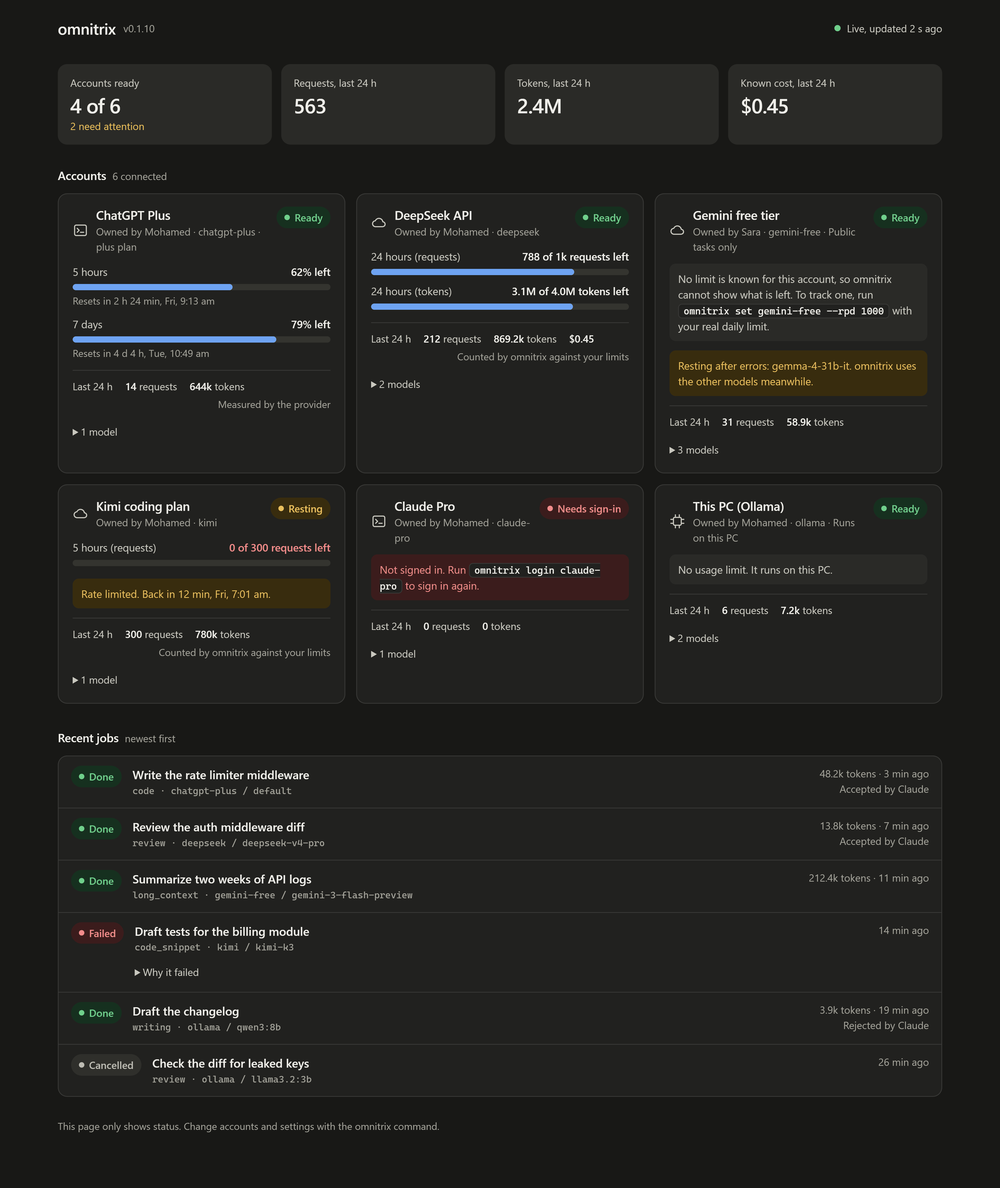
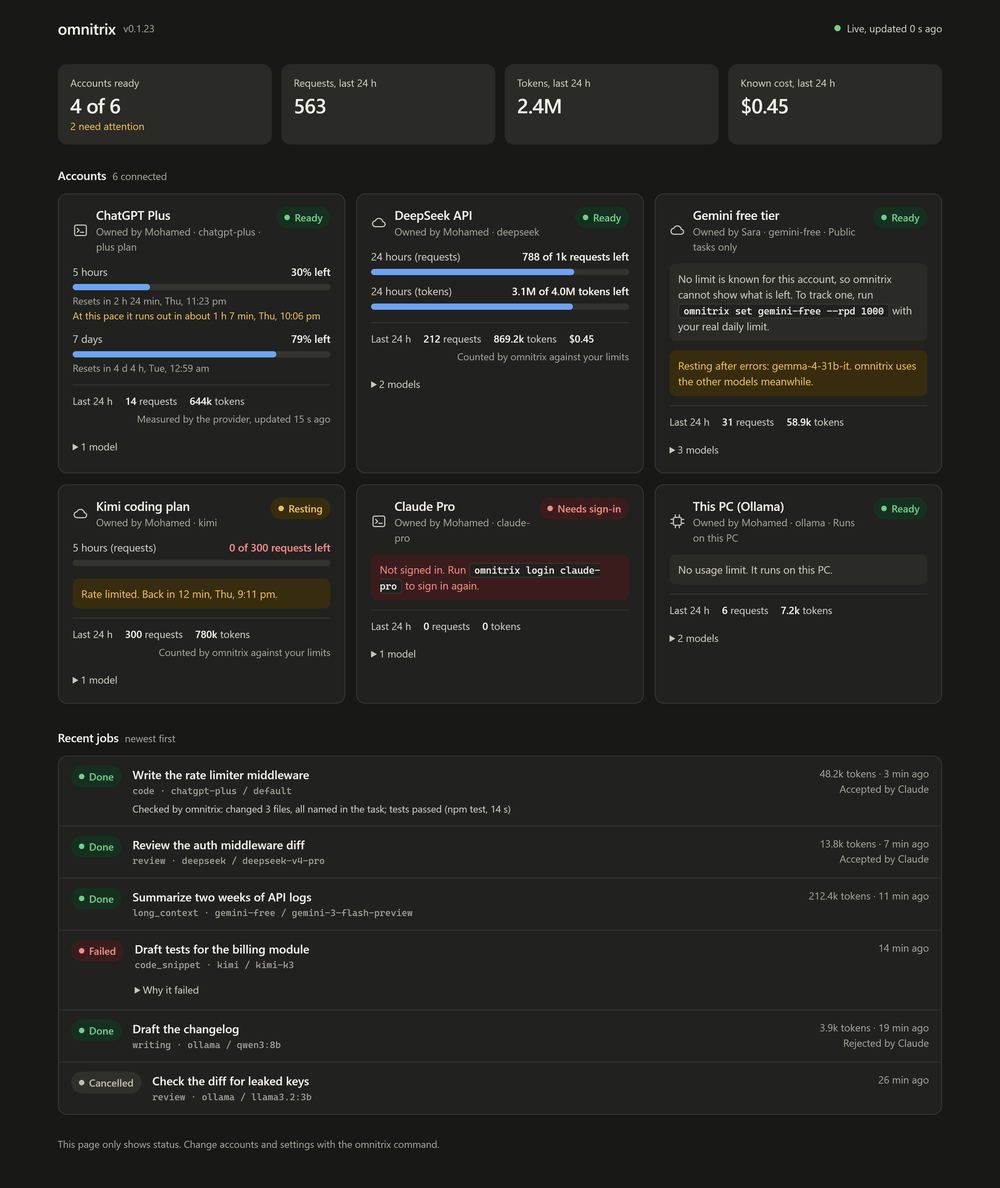
Bring the documentation in line with the code
The README now gives the real retry, rest and quota rules, the concurrency
defaults and how jobs move to the next free account, the job time limit
and output caps, how verdicts fade, where keys are stored and how to keep
them out of shell history, what the training flags do and do not cover,
and a complete command reference with the options each command takes.
SECURITY.md now states what the file lock covers and what it does not,
the limits of the copies that agent CLIs work in, and what the dashboard
shows. CONTRIBUTING.md lists the optional provider fields. The dashboard
screenshots show the live dashboard with omnitrix's check of a code job.

Release 0.1.23

diff --git a/src/version.ts b/src/version.ts
@@ -1,1 +1,1 @@
-export const VERSION = '0.1.22';
+export const VERSION = '0.1.23';

diff --git a/README.md b/README.md
@@ -9,7 +9,7 @@ Claude plans the work, and your other AI accounts carry it out.
 
 I built omnitrix because I repeatedly ran out of Claude credits while the ChatGPT Plus and Gemini subscriptions that my friends and I pay for remained largely unused.
 
-omnitrix is built for the frontier-model subscriptions and API keys you already pay for, and it runs inside your existing Claude Code session. Claude remains in charge: it divides the job into tasks and reviews the results. omnitrix sends each task to an account that suits the work and still has quota available. For example, it can use Codex on your ChatGPT plan for code edits, Gemini for reading very large logs, DeepSeek or Kimi for reasoning and review, or a local model for private work. It also supports any service that implements the OpenAI or Anthropic API.
+omnitrix is built for the frontier-model subscriptions and API keys you already pay for, and it runs inside your existing Claude Code session. Claude remains in charge: it divides the job into tasks and reviews the results. omnitrix sends each task to an account that suits the work and still has quota available. For example, it can use Codex on your ChatGPT plan for code edits, Gemini for reading very large logs, DeepSeek or Kimi for reasoning and review, or a local model for private work. It also supports any service that implements the OpenAI Chat Completions format or the Anthropic Messages format, through `custom-openai` and `custom-anthropic`.
 
 You can monitor the pool without leaving Claude Code. The status line shows up to four accounts with their remaining quota or status, and omnitrix instructs Claude to check the same data before it assigns work. Claude reads short results instead of performing every step itself, which uses less of your Claude usage limit.
 
@@ -71,9 +71,9 @@ Every task that Claude sends has a type, such as code, review or bulk work, and 
 - not permitted to receive the task: private work never goes to an account that may train on prompts while private protection is on, and secret work goes only to local models at an address on this computer (`localhost`, `127.x.x.x` or `::1`), never to a model whose name ends in `-cloud` or `:cloud`
 - unable to do the task, such as a model that cannot read images
 
-A model that is resting after errors is skipped, while the account's other models remain available. An account that fails three times in a row within ten minutes, through network errors, server errors, timeouts or unknown errors, rests for ten minutes. Rate limits, exhausted quota and sign-in problems are handled separately and do not count towards this. When `pool_status` or the dashboard shows the pool, omnitrix also asks each local model server, such as Ollama, for its model list at most once every 30 seconds, and shows a server that does not answer as offline. The router then skips that server until it answers again. Server errors and timeouts that all come from one model only pause that model, so they do not rest an account that has other models.
+A model that is resting after errors is skipped, while the account's other models remain available. An account that fails three times in a row within ten minutes, through network errors, server errors, timeouts or unknown errors, rests for ten minutes. Rate limits, exhausted quota and sign-in problems are handled separately and do not count towards this. When `pool_status` or the dashboard shows the pool, omnitrix also asks each local model server, such as Ollama, for its model list at most once every 30 seconds, and shows a server that does not answer as offline for 60 seconds, during which the router skips it. Other failures rest the whole account for a short time: 60 seconds after a network error (30 seconds for a local server), 30 seconds after a server error on an account with only one model, and 60 seconds after a rate limit unless the provider names a time. Server errors and timeouts that all come from one model only pause that model, so they do not rest an account that has other models.
 
-Each remaining model receives a score based on how well it fits the task, how much quota the account has left, what the model costs, and how often its past work was accepted. An account that is already running as many jobs as its concurrency limit allows has its score halved. The highest-scoring model receives the task. If that call fails, omnitrix ranks the accounts again, skips those it has already tried, and passes the task on without any action from Claude. A job makes at most three attempts. A model that the provider no longer serves, or for which the plan has no allowance, is removed from the account and rests for 24 hours, and trying it does not count as an attempt.
+Each remaining model receives a score based on how well it fits the task, how much quota the account has left, what the model costs, and how often its past work was accepted. An account that is already running as many jobs as its concurrency limit allows has its score halved. The highest-scoring model receives the task. If that call fails, omnitrix ranks the accounts again, skips those it has already tried, and passes the task on without any action from Claude. After a timeout or a server error, the same account stays eligible with another of its models. A job makes at most three attempts, and at most twelve tries in total when retired models are included. A request that the provider rejects as invalid, including an `effort` value that the model does not accept, fails the job without another attempt, and so does an answer that arrived but could not be saved. A model that the provider no longer serves, or for which the plan has no allowance, is removed from the account and rests for 24 hours, and trying it does not count as an attempt.
 
 Three further adjustments multiply that score. Each adjustment that applies is listed in the reasons shown by `omnitrix route`, which lists the top eight candidates, and by `route_preview`, which lists the top three:
 
@@ -85,15 +85,15 @@ Together these adjustments can raise a score by about 44% or lower it by 25%, so
 
 Code tasks go only to agent CLIs that can edit files. Each task runs on a new branch in its own git worktree, so two workers never share a checkout. Other tasks that name a repository and go to an agent CLI run in a temporary copy of the repository that is removed afterwards, so a reviewing worker does not work in your checkout. The copy is taken at the last commit, and the files that the task lists are copied into the prompt from your working tree, including changes that are not committed.
 
-After a code task, omnitrix checks the branch itself rather than relying on the worker's report. It lists the files that the worker changed and, when the task named its files, the changed files that the task did not name. When the task gives a `test` command, such as `["npm", "test"]`, omnitrix runs it in the job's worktree after the worker finishes and reports whether it passed, its exit code and the end of its output. `get_results` waits for the test, and the dashboard shows the result on each job as "Checked by omnitrix". The test runs the worker's code on your computer, without keys in its environment, with an empty home folder of its own and within the job time limit; `cancel_job` stops it. omnitrix never merges anything: Claude still reviews the work, and you decide what to keep.
+After a code task, omnitrix checks the branch itself rather than relying on the worker's report. It lists the files that the worker changed and, when the task named its files, the changed files that the task did not name. When the task gives a `test` command, such as `["npm", "test"]`, omnitrix runs it in the job's worktree after the worker finishes and reports whether it passed, its exit code and the end of its output. `get_results` waits for the test, and the dashboard shows the result on each job as "Checked by omnitrix". The test runs the worker's code on your computer, without keys in its environment, with an empty home folder of its own and with its own time limit, equal to the job limit but at most one hour; `cancel_job` stops it when it runs in the same omnitrix process. omnitrix never merges anything: Claude still reviews the work, and you decide what to keep.
 
-An account's concurrency limit applies to all omnitrix processes on the same computer, such as the MCP server, the dashboard and the command line. A job waits in the queue until the account has a free slot. The limit does not apply across different computers.
+An account's concurrency limit applies to all omnitrix processes that share the same data folder, such as the MCP server, the dashboard and the command line. It is 1 by default for agent CLIs and local models and 2 for APIs, and `omnitrix set <id> --concurrency` changes it. When the best account is full, the job goes to the next eligible account that has a free slot, and it waits in the queue only when every eligible account is full. The limit does not apply across different computers, and `omnitrix test` does not count towards it.
 
-A request to an API model may take up to 2 minutes for a small task, 5 minutes for a medium one and 10 minutes for a large one, and never longer than the job limit set with `omnitrix settings --timeout`. Agent CLIs such as Codex may use the whole job limit, because they work in many steps. When a model times out, returns a server error or returns an empty answer, that model is paused for 5 minutes, and the job continues on other accounts or models. An agent CLI that exits with an error code has failed, even if it printed an answer first.
+A request to an API model may take up to 2 minutes for a small task, 5 minutes for a medium one and 10 minutes for a large one, and never longer than the job limit, which is 900 seconds unless you change it with `omnitrix settings --timeout`. A task's `size` is medium unless Claude sets it, and it also caps the answer of an API model at 4,000, 16,000 or 32,000 tokens. Agent CLIs such as Codex may use the whole job limit, because they work in many steps. When a model times out, returns a server error or returns an empty answer, that model is paused for 5 minutes, and the job continues on other accounts or models. An agent CLI that exits with an error code has failed, even if it printed an answer first.
 
-Skill scores are starting points, not measurements, and `omnitrix models <id>` shows where each set comes from: `untested` when omnitrix knows nothing about the model, `estimated` when the scores are guessed from the model's name or from what the server reports, and `manual` when you set them yourself. For a local model, only the size and a specialty such as "coder" in its name count, because a local name can be anything; Ollama models are scored from the size and capabilities that Ollama reports and from a specialty in the name; a model that Ollama does not list receives the plain local scores. A hosted model is treated as reading images when its name suggests it or when you set a vision score; a local model is treated as reading images only when the server reports it or when you set its scores yourself. A `vision` task sends the pictures among its files (PNG, JPEG, GIF or WebP, up to four files of at most 3.75 MB each, which is about 5 MB after encoding; larger or additional pictures are not sent) with the request, so it goes only to API and local models, never to agent CLIs.
+Skill scores are starting points, not measurements, and `omnitrix models <id>` shows where each set comes from: `untested` when omnitrix knows nothing about the model, `estimated` when the scores are guessed from the model's name or from what the server reports, and `manual` when you set them yourself. For a local model, only the size and a specialty such as "coder" in its name count, because a local name can be anything; Ollama models are scored from the size and capabilities that Ollama reports and from a specialty in the name; a model that Ollama does not list receives the plain local scores. Text files that a task lists are copied into the prompt up to 400,000 characters in total, from at most 50 files. A hosted model is treated as reading images when its name suggests it or when you set a vision score of 5 or more; a local model is treated as reading images only when the server reports it or when you set its scores yourself. A `vision` task sends the pictures among its files (PNG, JPEG, GIF or WebP, up to four files of at most 3.75 MB each, which is about 5 MB after encoding; larger or additional pictures are not sent) with the request, so it goes only to API and local models, never to agent CLIs.
 
-omnitrix also adjusts its ranking over time: when Claude accepts or rejects a result, the model's record for that type of task is updated, and `omnitrix models` shows how many rated jobs each model has had and how many of them were accepted; older verdicts count for less over 30 days, and the figures are rounded. A later verdict on the same job replaces the earlier one instead of counting twice. For Ollama models that report a version digest, the record belongs to that exact version, so after `omnitrix models <id> --refresh` a new model pulled under the same name starts without the old record. Models that the router picks more often collect verdicts sooner, so an acceptance rate based on a few jobs says little.
+omnitrix also adjusts its ranking over time: when Claude accepts or rejects a result, the model's record for that type of task is updated, and `omnitrix models` shows how many rated jobs each model has had and how many of them were accepted; the weight of a verdict halves every 30 days, the figures are rounded, and the past-results factor in the router's reasons ranges from 0.6 to 1.4. A later verdict on the same job replaces the earlier one instead of counting twice. For Ollama models that report a version digest, the record belongs to that exact version, so after `omnitrix models <id> --refresh` a new model pulled under the same name starts without the old record. Models that the router picks more often collect verdicts sooner, so an acceptance rate based on a few jobs says little.
 
 ```bash
 omnitrix models deepseek
@@ -105,7 +105,7 @@ omnitrix route --type review "check this diff for auth bugs"
 
 <picture>
   <source media="(prefers-color-scheme: dark)" srcset="assets/dashboard-4k-dark.png">
-  <img alt="The omnitrix dashboard with example data: six accounts, with quota meters where limits are known, one resting after a rate limit and one that needs sign-in, and the latest jobs with their results." src="assets/dashboard-4k-light.png" width="100%">
+  <img alt="The omnitrix dashboard with example data: six accounts, with quota meters where limits are known, one resting after a rate limit and one that needs sign-in, and the latest jobs with their results, including omnitrix's own check of a code job." src="assets/dashboard-4k-light.png" width="100%">
 </picture>
 
 <sub>The dashboard, shown with example data. Run `omnitrix dashboard` to open your own.</sub>
@@ -120,13 +120,13 @@ omnitrix 5/6 ready · codex-main 38% · deepseek 788 left · kimi wait · groq-f
 
 Account percentages show the share remaining, and the Claude figures show the share used.
 
-Most subscriptions neither publish exact limits nor provide a way to query the remaining allowance, so omnitrix states the source of each figure. For a ChatGPT plan, it queries Codex directly and shows the percentage remaining in each window that Codex reports, usually 5 hours and 7 days, along with the time each window resets. This query ignores any API key exported in your environment, so the figures always belong to the account's own plan. When a provider sends rate-limit headers, omnitrix reports the remaining requests in the status line and in `pool_status`. In all other cases, it counts the requests and tokens it has sent against the limits you configured. A `429` or `402` response from the provider pauses the account, whatever the count shows.
+Most subscriptions neither publish exact limits nor provide a way to query the remaining allowance, so omnitrix states the source of each figure. For a ChatGPT plan, it queries Codex directly and shows the percentage remaining in each window that Codex reports, usually 5 hours and 7 days, along with the time each window resets. This query ignores any API key exported in your environment, so the figures always belong to the account's own plan. When a provider sends rate-limit headers, omnitrix reports the remaining requests in the status line and in `pool_status`. In all other cases, it counts the requests and tokens it has sent against the limits you configured. A `402` response, or a `429` response that mentions quota or billing, marks the account as out of quota until the provider's reset time, or for one hour when the provider gives no time. Any other `429` pauses the account until the time in `Retry-After`, or for 60 seconds, and a `429` that reports `limit: 0` pauses only that model, for 24 hours. These waits never exceed 24 hours, whatever the count shows.
 
 omnitrix also estimates when a window will run out if use continues at its current pace. For the windows that Codex reports for a ChatGPT plan, the pace is the share used between the opening of the window and the latest reading, and an estimate is possible once the window has been open for at least 15 minutes. For the 5-hour and 24-hour limits that omnitrix counts itself, the pace is the number of requests, or tokens, sent in the last hour, and an estimate is possible once at least three requests were sent in that hour. Weekly, monthly and one-minute limits are not estimated, because a single hour says little about them. An estimate is shown only when it falls before the window resets or, for a rolling window, within the length of the window. The estimate is a straight-line projection that does not account for older use leaving a rolling window, so it is a warning rather than a prediction. In `pool_status` it reads, for example, "runs out in about 1 h 7 min at this pace", and the dashboard shows "At this pace it runs out in about 1 h 7 min", followed by the time.
 
 ## Privacy
 
-Tasks are `private` by default, which keeps them away from accounts flagged as possibly training on prompts. omnitrix flags Mistral, the Gemini API and Gemini CLI by default, and you can flag any other account with `omnitrix set <id> --trains-on-data`. A Gemini CLI account added before version 0.1.18 keeps its old setting until you flag it this way. A task marked `secret` runs only on local providers such as Ollama, at an address on this computer, and never on Ollama's cloud models. omnitrix sends data only to the providers you connect, and it collects no telemetry.
+Tasks are `private` by default, which keeps them away from accounts flagged as possibly training on prompts. omnitrix flags Mistral, the Gemini API and Gemini CLI by default, and you can flag any other account with `omnitrix set <id> --trains-on-data`. A Gemini CLI account added before version 0.1.18 keeps its old setting until you flag it this way. A task marked `secret` runs only on local providers such as Ollama, at an address on this computer, and never on Ollama's cloud models. omnitrix sends prompts only to the providers you connect, and in team mode it also writes usage records, without prompts or results, to the shared `auditDir`. omnitrix itself collects no telemetry, but the agent CLIs it starts follow their own telemetry settings. The training flags are fixed defaults that are not checked against each provider's current terms; OpenRouter, NVIDIA and custom providers are not flagged, so flag them yourself when their terms allow training.
 
 ## Connecting accounts
 
@@ -140,7 +140,7 @@ Tasks are `private` by default, which keeps them away from accounts flagged as p
 | A local model | `omnitrix add ollama` (LM Studio, llama.cpp and vLLM are also supported) |
 | Any other service | `omnitrix add custom-openai --base-url https://host/v1 --key-env MY_KEY --model my-model` |
 
-Run `omnitrix providers` for the full list. Each CLI account has its own profile folder, so two Codex logins never mix. Keys are stored in `~/.omnitrix/secrets.json`, which on macOS and Linux only your user account can read. If you use `--key-env`, omnitrix does not store the key at all.
+Run `omnitrix providers` for the full list. Each CLI account has its own profile folder, so two Codex logins never mix. Keys are stored as plain text in `~/.omnitrix/secrets.json`, not in the operating system's keychain; on macOS and Linux only your user account can read the file, and on Windows omnitrix leaves its permissions as Windows sets them. Set `OMNITRIX_HOME` to keep omnitrix's data in another folder. If you use `--key-env`, omnitrix does not store the key at all, and when you give neither `--key` nor `--key-env`, `omnitrix add` uses the provider's usual environment variable if it is set. Avoid `--key <value>`, because the key then appears in your shell history.
 
 To track a limit, specify it when you add the account or later with `omnitrix set`:
 
@@ -150,7 +150,7 @@ omnitrix set groq-free --rpm 30 --rpd 1000
 omnitrix set deepseek --tpd 4000000      # tokens per day
 ```
 
-The available options are `--rpm` (requests per minute), `--r5h` (requests per 5 hours), `--rpd` (requests per day), `--rpw` (requests per week), `--tpd` (tokens per day) and `--tpm` (tokens per month).
+The available options are `--rpm` (requests per minute), `--r5h` (requests per 5 hours), `--rpd` (requests per day), `--rpw` (requests per week), `--tpd` (tokens per day) and `--tpm` (tokens per month). Minutes, hours, days and weeks are rolling windows, and the month is the calendar month in local time. Only requests that omnitrix sends are counted, and a request counts once it has finished, so parallel jobs can go somewhat past a limit.
 
 ## Team mode
 
@@ -203,47 +203,53 @@ omnitrix runs as an MCP server and gives Claude the following tools:
 | `pool_status` | Lists every account with its state, owner, models and remaining quota |
 | `route_preview` | Shows which account would receive each task, and why, without running anything |
 | `dispatch` | Sends up to 30 tasks at once and runs independent tasks in parallel |
-| `get_results` | Waits for jobs and returns a short preview of each result |
-| `read_output` | Reads a full result in pages when the preview is not sufficient |
+| `get_results` | Waits for up to 50 jobs, 45 seconds by default and at most 110, and returns a short preview of each result, or the full results with `full` |
+| `read_output` | Reads a full result in pages of 12,000 characters by default and at most 40,000 |
 | `rate_result` | Accepts or rejects a result so that the router can learn from it, and can send a rejected task to another model |
-| `cancel_job`, `list_jobs` | Cancels a job or lists recent jobs |
+| `cancel_job`, `list_jobs` | Cancels a job, its pending check or its running test, or lists the 20 most recent jobs (at most 100) |
+
+Each task has a `title` of at most 200 characters, a `type`, a `prompt` and optionally an `acceptance` line, a `privacy` level, `files`, a `repo`, a `size` (`small`, `medium` or `large`), `use` to force an account or model, `effort`, `check` and, for code tasks, `test`. `route_preview` accepts up to 30 tasks.
 
 The `pool_status`, `dispatch` and `get_results` tools declare output schemas, and their structured data contains everything their text shows. `list_jobs` also lists jobs that other omnitrix processes started, and `cancel_job` can cancel them.
 
-A task can set `effort` to `low`, `medium` or `high` to ask a reasoning model to think less or more. omnitrix passes it to Codex and to OpenAI-compatible APIs such as Gemini; without it, each provider uses its own default. From the command line, use `omnitrix run --effort high`.
+A task can set `effort` to `low`, `medium` or `high` to ask a reasoning model to think less or more. omnitrix passes it to Codex and to OpenAI-compatible APIs such as Gemini, but not to Anthropic-format APIs or to other agent CLIs; without it, each provider uses its own default. From the command line, use `omnitrix run --effort high`.
 
 ### Checking and retrying results
 
-A task can set `check` to `true` together with an `acceptance` line. When the result is ready, omnitrix sends a short review task to a different account. That task contains the instructions, the acceptance line and the result, with secrets removed and the result marked as data rather than instructions, and asks for PASS or FAIL with a one-sentence reason. Checks run only on models without tools, never on an agent CLI that can read files or run commands. `get_results` waits for this verdict and shows it next to the result. The check follows the privacy level of the task, so private work is checked only by an account that may receive private work. If no other suitable account is available, the check is reported as unavailable. The check uses the checking account's quota, and it reads the worker's report, not the changed files. It is advice for Claude's own review and does not replace it.
+A task can set `check` to `true` together with an `acceptance` line. When the result is ready, omnitrix sends a short review task to a different account. That task contains the instructions, the acceptance line and the result, with secrets removed and the result marked as data rather than instructions, and asks for PASS or FAIL with a one-sentence reason. Checks run only on models without tools, never on an agent CLI that can read files or run commands. `get_results` waits for this verdict and shows it next to the result. The check follows the privacy level of the task, so private work is checked only by an account that may receive private work. If no other suitable account is available, the check is reported as unavailable. The check uses the checking account's quota, and it reads the worker's report, not the changed files. It reads at most the first 4,000 characters of the instructions and 20,000 characters of the result. It is advice for Claude's own review and does not replace it.
 
-When Claude rejects a result, it can call `rate_result` with `retry` set to `true` and a note that explains what was wrong. omnitrix then sends the same task to a model that has not been rejected for it, with the note added to the instructions. The new worker sees the note but not the rejected answer. A job is retried only once; to try again, rate the new job. A check job cannot be retried.
+When Claude rejects a result, it can call `rate_result` with `retry` set to `true` and a note that explains what was wrong. omnitrix then sends the same task to a model that has not been rejected for it, with the note added to the instructions. The new worker sees the note but not the rejected answer. A job is retried only once; to try again, rate the new job. A check job cannot be retried. A retry does not keep a forced `use`, and a task with `check` is checked again. The note can be up to 500 characters.
 
 By default, previews are limited to 1,500 characters to keep Claude's token usage low; `omnitrix settings --preview-chars` changes the limit. Full outputs remain on disk.
 
 ## Commands
 
 ```
-omnitrix init                   list what can be connected on this computer (--apply connects it)
+omnitrix init                   list what can be connected on this computer (--apply connects it, --no-open skips the dashboard)
 omnitrix providers              list the providers you can connect
-omnitrix add <provider>         connect an account
+omnitrix add <provider>         connect an account (--label, --owner, --id, --key-env, --base-url, --model, --concurrency, limits)
 omnitrix login <id>             sign in a CLI account in its own profile
-omnitrix list                   show accounts, usage and remaining quota
-omnitrix test <id>              send a small request to check an account
-omnitrix set <id>               change limits, owner, key or concurrency
+omnitrix list                   show accounts, usage and remaining quota (also "status"; --json for machine-readable output)
+omnitrix test <id>              send a small request to check an account (--model picks one)
+omnitrix set <id>               change limits, label, owner, key, base URL, priority, concurrency or --trains-on-data
 omnitrix enable|disable <id>    enable or disable an account
 omnitrix remove <id>            remove an account (--purge also deletes its login)
-omnitrix models <id>            show model scores (--refresh queries the provider again)
+omnitrix models <id>            show model scores and rated jobs (--refresh queries the provider again)
 omnitrix model <id> <model>     set scores or prices, or --add or --remove a model
-omnitrix route <prompt>         show which model would receive a task
-omnitrix run <prompt>           run one task and print the answer
-omnitrix settings               set the mode, privacy, and pinned or banned providers
-omnitrix dashboard              open the live dashboard on 127.0.0.1, which runs in the background (--stop stops it)
-omnitrix setup-claude           register with Claude Code
-omnitrix team                   join, review or leave a team file, and show your spending
-omnitrix usage                  requests, tokens and cost by person, account or model for the last 30 days (--team reads the shared folder)
-omnitrix clean                  delete finished jobs and worktrees older than 14 days (--branches also deletes branches no longer needed)
+omnitrix route <prompt>         show which model would receive a task (--type, --privacy)
+omnitrix run <prompt>           run one task and print the answer (--type, --privacy, --use, --repo, --effort)
+omnitrix settings               set the mode, private protection, pins, bans, the job time limit and the preview length
+omnitrix dashboard              open the live dashboard on 127.0.0.1:4590, which runs in the background (--stop, --port, --no-open, --serve)
+omnitrix setup-claude           register with Claude Code (--scope user|project|local, --no-statusline, --dry-run)
+omnitrix team                   join, review or leave a team file, and show your spending (join --as, --yes; leave; status)
+omnitrix usage                  requests, tokens and cost for the last 30 days (--by person|account|model, --days, --team)
+omnitrix clean                  delete finished jobs and worktrees older than 14 days (--days, --dry-run, --branches)
 omnitrix doctor                 check the setup
+omnitrix mcp                    run the MCP server (Claude Code starts this itself)
+omnitrix statusline             print the status line (Claude Code runs this itself)
 ```
+
+Run `omnitrix <command> --help` for every option of a command. `omnitrix run` takes no `check`, `test`, `files` or `size`; those are set by Claude through `dispatch`.
 
 `omnitrix clean --branches` also deletes the git branch of each old job that was rejected, failed or cancelled, and the branch of any other old job once its work is already in the repository's current branch. A branch with work that has not been merged is kept, together with its job record, so that a later `clean --branches` can still remove it once it is merged or rejected. Only branches that omnitrix created for its jobs are deleted. Add `--dry-run` to see what would be deleted first; it changes nothing.
 
@@ -275,7 +281,7 @@ npm run build
 npm test
 ```
 
-The tests use fake providers and a fake agent CLI, so they require neither API keys nor network access.
+The tests use fake providers and fake agent CLIs on this computer, so they require neither API keys nor internet access.
 
 ## License
 

diff --git a/SECURITY.md b/SECURITY.md
@@ -6,31 +6,31 @@ Please do not open a public issue for a security vulnerability. Instead, use Git
 
 ## Security measures
 
-API keys are stored in `~/.omnitrix/secrets.json`. On macOS and Linux, the `~/.omnitrix` folder and the key file are readable only by your user account. To avoid storing a key at all, add the account with `--key-env`, and omnitrix will read the key from the environment each time. Error messages and the files attached to a task are masked for every key that the running omnitrix process has read for an account, and for values that match common key formats, such as `sk-`, `gsk-`, `fw_` and Google `AIza` keys, GitHub and AWS keys, JSON Web Tokens and Bearer tokens. Prompts and results are saved in `~/.omnitrix` without masking.
+API keys are stored in `~/.omnitrix/secrets.json`. On macOS and Linux, the `~/.omnitrix` folder and the key file are readable only by your user account. To avoid storing a key at all, add the account with `--key-env`, and omnitrix will read the key from the environment each time. Error messages and the files attached to a task are masked for every key that the running omnitrix process has read for an account, and for values that match common key formats, such as `sk-`, `gsk-`, `fw_` and Google `AIza` keys, GitHub and AWS keys, JSON Web Tokens and Bearer tokens. Prompts and results are saved in `~/.omnitrix` without masking, and the prompts that Claude writes are sent to providers as they are; keys are masked by value only when they are at least 12 characters long.
 
 CLI logins remain inside each account's own profile folder. omnitrix starts the official tool with that folder and never reads, copies or uploads its contents.
 
-Code tasks run in a separate git worktree. Before a worker starts, omnitrix deletes any agent settings included in the repository (`.claude`, `.mcp.json`, `.codex`, `.gemini`, `.qwen`, `.opencode`, `opencode.json`, `opencode.jsonc`, `.agy` and `.antigravity`), which prevents a repository from injecting hooks or MCP servers into a worker run. Other tasks that name a repository and go to an agent CLI run in a temporary copy of the repository at its last commit, with the same settings deleted, and the copy is removed when the task ends, so the worker does not work in your checkout. omnitrix sandboxes only Codex, which runs read-only for such tasks; another agent CLI that runs commands can still reach files outside its copy.
+Code tasks run in a separate git worktree. Before a worker starts, omnitrix deletes any agent settings included in the repository (`.claude`, `.mcp.json`, `.codex`, `.gemini`, `.qwen`, `.opencode`, `opencode.json`, `opencode.jsonc`, `.agy` and `.antigravity`), which prevents a repository from injecting hooks or MCP servers into a worker run. Other tasks that name a repository and go to an agent CLI run in a temporary copy of the repository at its last commit, with the same settings deleted, and the copy is removed when the task ends, so the worker does not work in your checkout. omnitrix limits only Codex to read-only file access for such tasks, and Codex can still read files outside its copy; another agent CLI that runs commands can reach files outside its copy too. The copy is a git worktree that shares the repository's git data, and agent settings are removed only at its top level. A worker that can run commands could therefore change the repository's shared git settings, which affects git commands run in the repository later, so run agent CLIs only on repositories whose work you would review.
 
 When omnitrix commits a code worker's changes, it uses the git folder that it recorded when it created the worktree, and it runs no git hooks and no file monitor. A worker that edits the `.git` file of its worktree therefore cannot make omnitrix run its commands.
 
-When a task names a repository, omnitrix attaches only files inside it. omnitrix never attaches a file from `~/.omnitrix`, from `~/.ssh`, `~/.aws`, `~/.gnupg`, `~/.azure`, `~/.kube`, `~/.docker`, `~/.config/gh` or `~/.config/gcloud`, or, on Windows, from the GitHub CLI and gcloud folders in `AppData`. It also never attaches files named like credentials, such as `.env`, `.netrc`, `.npmrc`, `.git-credentials` or `id_ed25519`, wherever they are. Links are followed before these checks.
+When a task names a repository, omnitrix attaches only files inside it. omnitrix never attaches a file from `~/.omnitrix`, from `~/.ssh`, `~/.aws`, `~/.gnupg`, `~/.azure`, `~/.kube`, `~/.docker`, `~/.config/gh` or `~/.config/gcloud`, or, on Windows, from the GitHub CLI and gcloud folders in `AppData`. It also never attaches files named like credentials, such as `.env`, `.netrc`, `.npmrc`, `.git-credentials` or `id_ed25519`, wherever they are. Links are followed before these checks. These rules apply to files that omnitrix copies into a prompt; an agent CLI reads files itself and is not bound by them.
 
 Agent CLIs start without the environment variables whose names suggest a key, token, secret or password, or whose value carries a password inside an address, and without settings that would point them at another provider; only the account's own key is passed on. Requests to API providers do not follow redirects, so a key is sent only to the configured address, and an answer larger than 32 MB, or a model list larger than 4 MB, is refused. When a provider asks omnitrix to wait, through `Retry-After` or a reset header, omnitrix waits at most 24 hours.
 
-Job ids that Claude passes to omnitrix must match the format that omnitrix uses for them, so an id can never name a file outside omnitrix's own folders. `omnitrix clean` deletes only files and worktrees inside those folders.
+Job ids that Claude passes to omnitrix must match the format that omnitrix uses for them, so an id can never name a file outside omnitrix's own folders. `omnitrix clean` deletes only files and worktrees inside those folders, and with `--branches` it also deletes the `omnitrix/<job id>` branches that it created in your repositories.
 
-A code task may name a test command, which omnitrix runs in the job's worktree after the worker finishes. That command runs the worker's code on your computer, so it starts without the environment variables that suggest keys, tokens or passwords or that carry a password inside an address, with an empty home folder of its own, and it stops at the job time limit or when the job is cancelled. The program must be a plain program name found on PATH or an existing full path. The list of changed files includes both names of a moved file. On Windows, a `.cmd` program, whether a test command or an agent CLI, is started through `cmd.exe` with a fixed command text: the program's path arrives in a variable and every argument is quoted, and an argument containing a quotation mark, a percent sign or a line break is refused. omnitrix does not sandbox the test, so name a test command only for repositories whose tests you would run yourself.
+A code task may name a test command, which omnitrix runs in the job's worktree after the worker finishes. That command runs the worker's code on your computer, so it starts without the environment variables that suggest keys, tokens or passwords or that carry a password inside an address, with an empty home folder of its own, and it has its own time limit, equal to the job limit but at most one hour, and it stops when the job is cancelled. The program must be a plain program name found on PATH or an existing full path. The list of changed files includes both names of a moved file. On Windows, a `.cmd` program, whether a test command or an agent CLI, is started through `cmd.exe` with a fixed command text: the program's path arrives in a variable and every argument is quoted, and an argument containing a quotation mark, a percent sign or a line break is refused. omnitrix does not sandbox the test, so name a test command only for repositories whose tests you would run yourself.
 
 Prompts reach agent CLIs through standard input and never appear on the command line. Model names must match a strict pattern before they are passed on.
 
-The dashboard listens only on 127.0.0.1 and rejects requests addressed to any host name other than 127.0.0.1 or localhost. It also rejects requests that a browser marks as coming from another website, and it does not allow other pages to show it in a frame. Its responses also forbid content-type sniffing. Programs running on the same computer, including those of other user accounts, can still read the dashboard, so it shows account names, models, job titles and the start of error messages but never keys, prompts or results. It accepts at most 16 live page connections at a time.
+The dashboard listens only on 127.0.0.1 and rejects requests addressed to any host name other than 127.0.0.1 or localhost. It also rejects requests that a browser marks as coming from another website, and it does not allow other pages to show it in a frame. Its responses also forbid content-type sniffing. Programs running on the same computer, including those of other user accounts, can still read the dashboard, so it shows account names, models, job titles, the start of error messages, test commands and up to five changed file names, but never keys, prompts or results. It accepts at most 16 live page connections at a time.
 
 On Windows, omnitrix does not run an agent program, such as `codex`, that is located in the current folder, so a cloned repository cannot substitute its own program.
 
-Several omnitrix processes, such as the MCP server, the dashboard and the command line, change the same files for verdicts, account health, quota readings and keys. Each change is made under a short lock file, so one process never silently replaces another's change. A lock left by a process that stopped is taken over after 10 seconds.
+Several omnitrix processes, such as the MCP server, the dashboard and the command line, change the same files for verdicts, account health, quota readings and keys. Each of these changes is made under a short lock file that names the process holding it. A lock left by a process that stopped is taken over at once, or after 10 seconds if its holder cannot be read, and after 5 seconds of waiting omnitrix makes the change without the lock and prints a warning. `config.json` and job records are not locked, so two changes made to them at the same moment can overwrite each other.
 
-Each release includes `omnitrix.tgz.sha256`, the SHA-256 checksum of the package, so a download can be checked before it is installed; the README shows how.
+Each release from version 0.1.21 onward includes `omnitrix.tgz.sha256`, the SHA-256 checksum of the package, so a download can be checked before it is installed; the README shows how.
 
 ## Supported versions
 

diff --git a/CONTRIBUTING.md b/CONTRIBUTING.md
@@ -12,7 +12,7 @@ npm test
 
 ## Adding a provider
 
-Most providers require only an entry in `src/providers.ts`: an ID, a name, the driver (`openai`, `anthropic` or `cli`), the base URL and the environment variable that typically holds the key. Please link to the provider's documentation or terms in your pull request. If its free tier may train on prompts, set `trainsOnData: true`.
+Most providers require only an entry in `src/providers.ts`: an ID, a name, the driver (`openai`, `anthropic` or `cli`), the base URL and the environment variable that typically holds the key. Please link to the provider's documentation or terms in your pull request. If its free tier may train on prompts, set `trainsOnData: true`. Optional fields cover a second endpoint in the Anthropic Messages format (`anthropicUrl`), a model server on this computer (`local: true`), models to register when the provider has no model list (`models`) and default limits (`limits`). An agent CLI provider also names its entry in `CLI_TOOLS` with `cli`.
 
 A new agent CLI belongs in `CLI_TOOLS` in `src/drivers/cli.ts`. The entry must define how to run the tool without a terminal, how to point it at a profile folder and how to read its output. Please include a test that uses a fake script, following the example in `test/engine.test.ts`.
 
